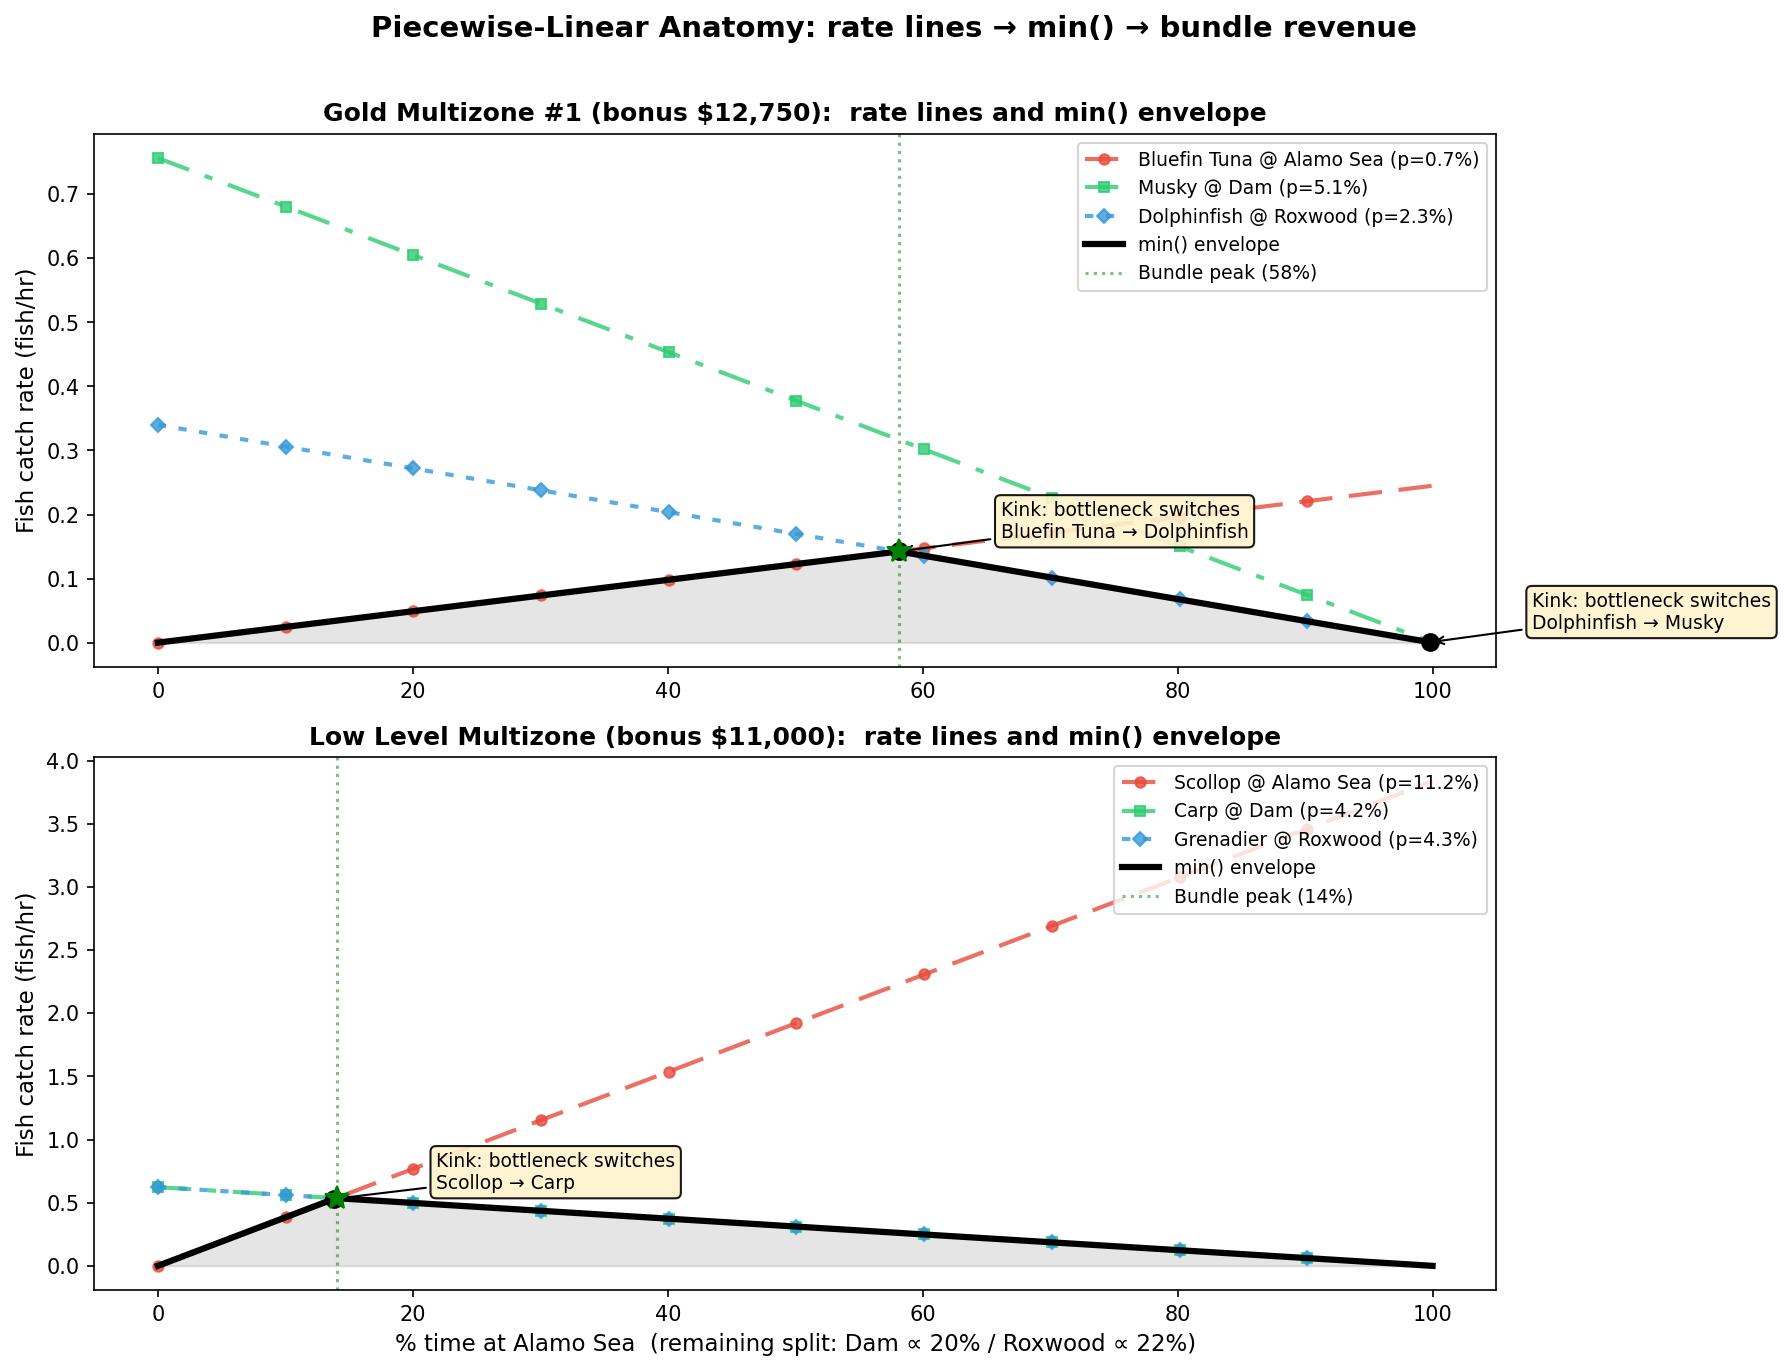
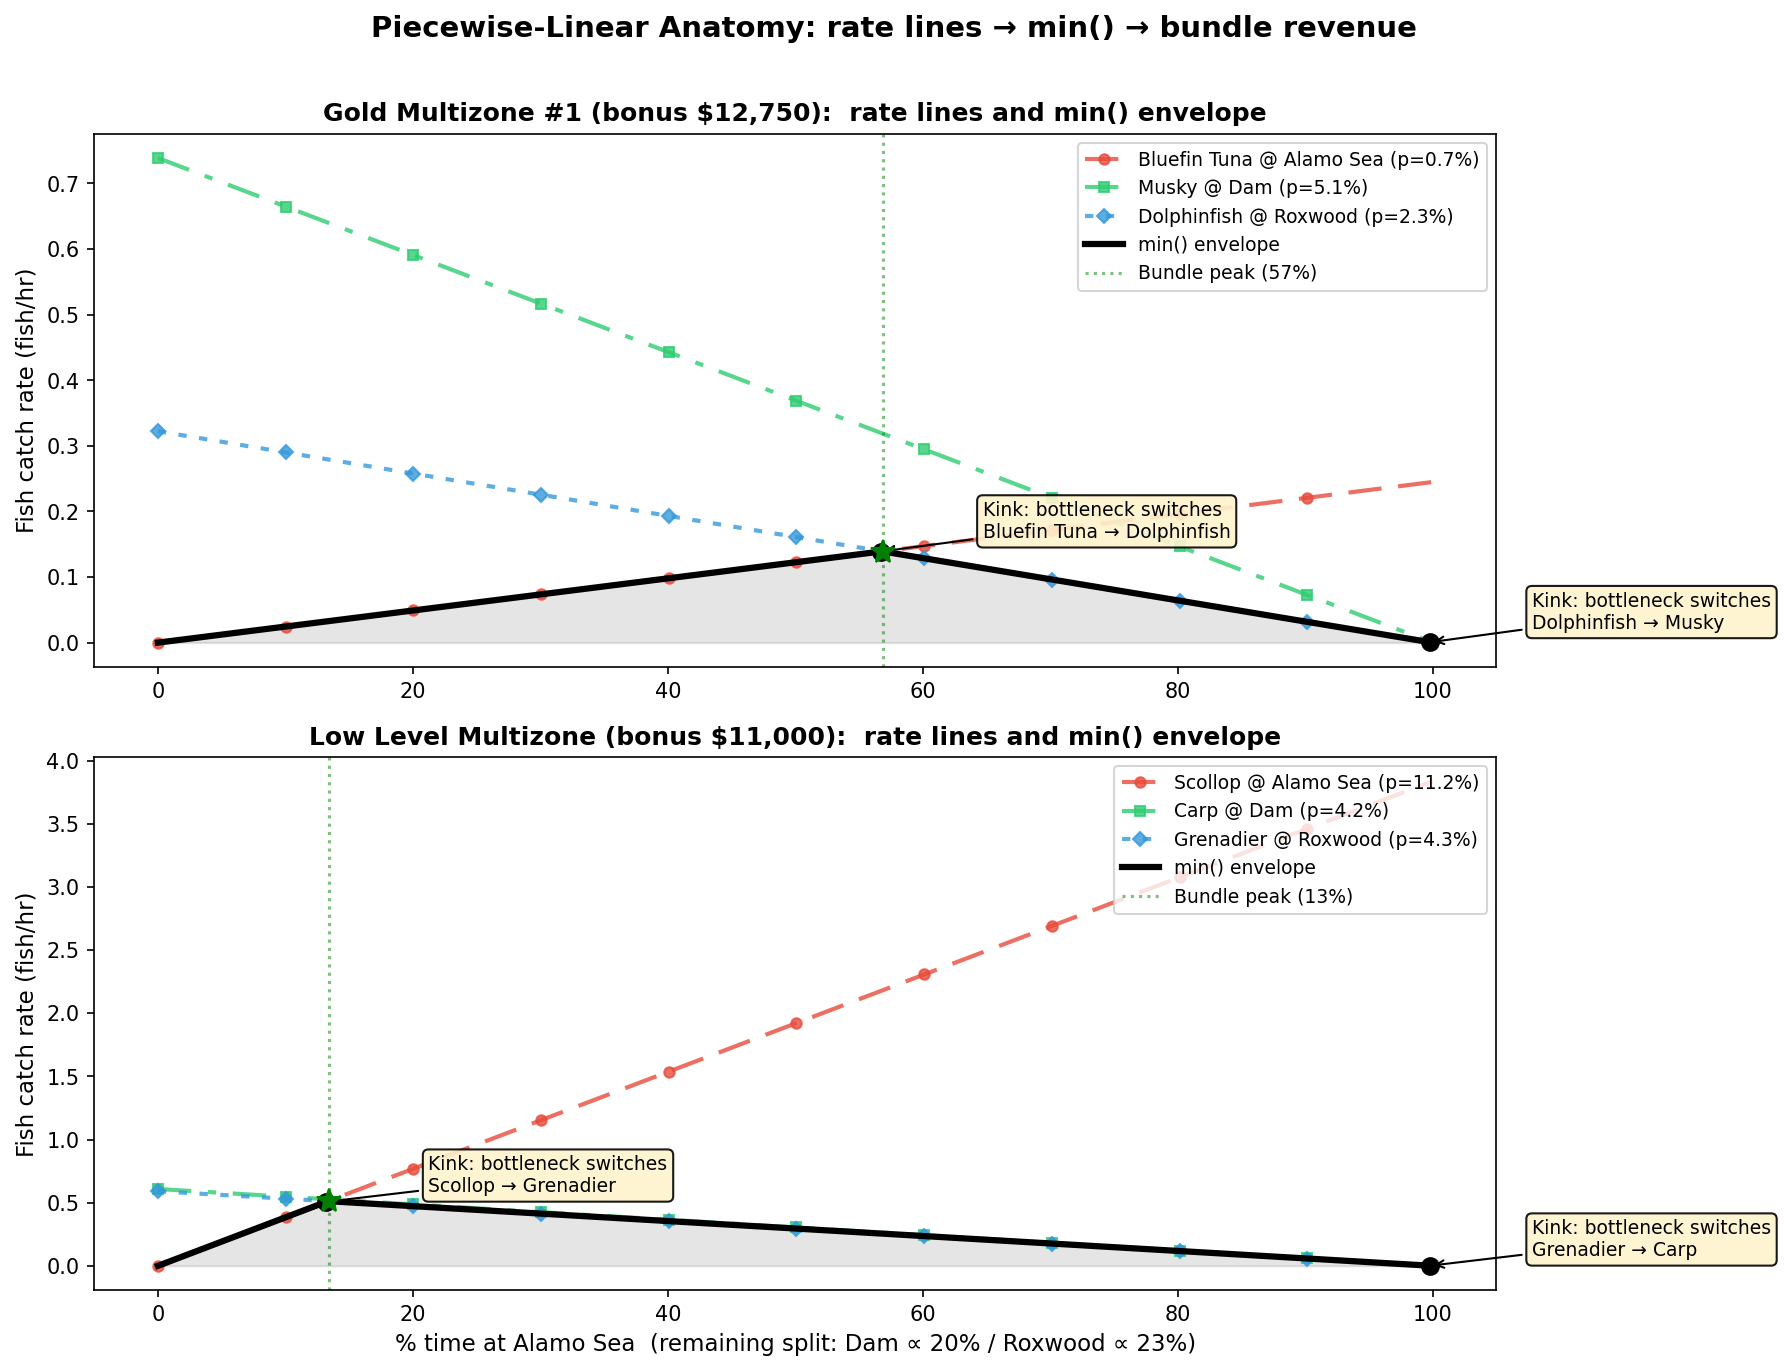
update

diff --git a/sales/constants.py b/sales/constants.py
@@ -163,7 +163,7 @@ SECONDS_WAITING_FOR_BITE_DEFAULT = 100  # for unknown locations
 SECONDS_REELING_IN: dict[str, int] = {
     "Alamo Sea": 15,
     "Dam": 115 - SECONDS_WAITING_FOR_BITE["Dam"],
-    "Roxwood": 30,
+    "Roxwood": 140 - SECONDS_WAITING_FOR_BITE["Roxwood"],
 }
 SECONDS_REELING_IN_DEFAULT = 30  # for unknown locations
 

diff --git a/sales/comparison.md b/sales/comparison.md
@@ -2,7 +2,7 @@
 
 Detected tier: 3 (Alamo Sea, Dam, Roxwood).
 
-Bite wait by location: Alamo Sea 90s, Dam 90s, Roxwood 100s. Reel-in by location: Alamo Sea 15s, Dam 25s, Roxwood 30s.
+Bite wait by location: Alamo Sea 90s, Dam 90s, Roxwood 100s. Reel-in by location: Alamo Sea 15s, Dam 25s, Roxwood 40s.
 
 ~ = estimated (not yet observed in catch data)
 
@@ -10,7 +10,7 @@ Bite wait by location: Alamo Sea 90s, Dam 90s, Roxwood 100s. Reel-in by location
 |-----------|------------:|----------------:|-------------:|-------------------------------------------------------|-----------------:|-------------------:|---------------------:|---------------:|
 | Alamo Sea |         420 |          $1,472 |       $1,404 | Gold Multizone #1, Alamo Starter, Low Level Multizone |             $655 |             $2,127 |           **$2,059** |        $70,606 |
 | Dam       |         335 |          $1,664 |       $1,664 | Gold Multizone #1, Low Level Multizone                |             $369 |             $2,033 |           **$2,033** |        $63,644 |
-| Roxwood   |         256 |          $1,826 |       $1,849 | Gold Multizone #1, Low Level Multizone                |             $257 |             $2,083 |           **$2,107** |        $58,335 |
+| Roxwood   |         256 |          $1,826 |       $1,849 | Gold Multizone #1, Low Level Multizone                |             $257 |             $2,083 |           **$2,107** |        $54,168 |
 
 ## Optimal Allocation
 
@@ -18,13 +18,13 @@ Optimal time split across locations to maximize total $/hour (considering both s
 
 | Location     | Time % (obs) | $/Fish (obs) | $/Hour (obs) | Time % (model) | $/Fish (model) | $/Hour (model) |
 |--------------|-------------:|-------------:|-------------:|---------------:|---------------:|---------------:|
-| Alamo Sea    |          58% |       $1,472 |      $57,829 |            58% |         $1,404 |        $55,497 |
+| Alamo Sea    |          57% |       $1,472 |      $57,829 |            57% |         $1,404 |        $55,497 |
 | Dam          |          20% |       $1,664 |      $52,096 |            20% |         $1,664 |        $52,096 |
-| Roxwood      |          22% |       $1,826 |      $50,566 |            22% |         $1,849 |        $51,213 |
-| **Combined** |         100% |              |  **$59,773** |           100% |                |    **$58,564** |
+| Roxwood      |          23% |       $1,826 |      $46,954 |            23% |         $1,849 |        $47,555 |
+| **Combined** |         100% |              |  **$58,744** |           100% |                |    **$57,553** |
 
-**Observed:** splitting yields **$59,773**/hour vs **$57,829**/hour best solo (+$1,945/hour, +3.4%).
-**Model:** splitting yields **$58,564**/hour vs **$55,497**/hour best solo (+$3,067/hour, +5.5%).
+**Observed:** splitting yields **$58,744**/hour vs **$57,829**/hour best solo (+$915/hour, +1.6%).
+**Model:** splitting yields **$57,553**/hour vs **$55,497**/hour best solo (+$2,056/hour, +3.7%).
 
 ## Bundle Details
 
@@ -38,8 +38,8 @@ Optimal time split across locations to maximize total $/hour (considering both s
 
 | Bundle              | Fish                             |   Bonus | Avg Fish to Complete | Avg Time | Bonus/Fish | Catch Rates                                                                                                 |
 |---------------------|----------------------------------|--------:|---------------------:|---------:|-----------:|-------------------------------------------------------------------------------------------------------------|
-| Gold Multizone #1   | Bluefin Tuna, Musky, Dolphinfish | $12,750 |                  202 |  375 min |        $63 | Bluefin Tuna @ Alamo Sea: 3/420 (0.7%) \| Musky @ Dam: 17/335 (5.1%) \| Dolphinfish @ Roxwood: 6/256 (2.3%) |
-| Low Level Multizone | Scollop, Carp, Grenadier         | $11,000 |                   56 |  112 min |       $196 | Scollop @ Alamo Sea: 47/420 (11.2%) \| Carp @ Dam: 14/335 (4.2%) \| Grenadier @ Roxwood: 11/256 (4.3%)      |
+| Gold Multizone #1   | Bluefin Tuna, Musky, Dolphinfish | $12,750 |                  202 |  382 min |        $63 | Bluefin Tuna @ Alamo Sea: 3/420 (0.7%) \| Musky @ Dam: 17/335 (5.1%) \| Dolphinfish @ Roxwood: 6/256 (2.3%) |
+| Low Level Multizone | Scollop, Carp, Grenadier         | $11,000 |                   56 |  116 min |       $196 | Scollop @ Alamo Sea: 47/420 (11.2%) \| Carp @ Dam: 14/335 (4.2%) \| Grenadier @ Roxwood: 11/256 (4.3%)      |
 
 ## Drop Rate Analysis
 
